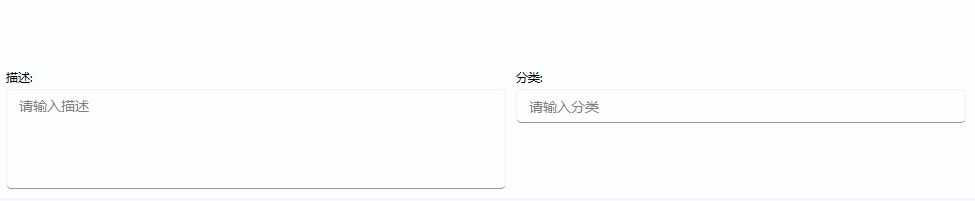
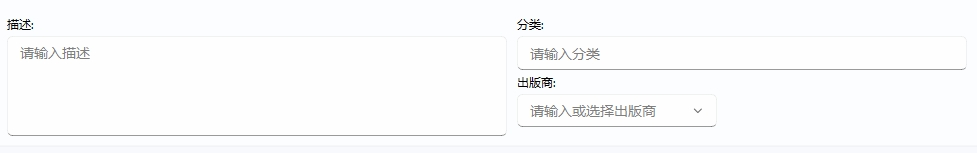
UPDATE: 添加版本 1.2.0 的更新记录，包括新增功能、变更和修复说明，优化工具栏和文件选择体验

diff --git a/src/download-and-update.md b/src/download-and-update.md
@@ -10,6 +10,26 @@
 
 ## 更新记录
 
+### [1.2.0] - 2025-12-13
+
+#### 新增
+
+- 文件工具栏分类输入框支持退格键删除最后一个分类
+- 文件工具栏中添加出版商输入框，支持用户自定义出版商信息
+- 在配置中添加段尾判断字符设置，支持用户自定义段落合并判断条件
+- 在章节长度窗口中添加 ESC 快捷键以关闭窗口
+- EPUB 支持 UTC 时间戳，设置书籍语言为简体中文，设置书籍阅读方向为从左向右阅读
+
+#### 变更
+
+- 修正 EPUB 中的语言设置为简体中文（zh-CN），制作软件信息不再设为出版商，修改为阅读无感知的 meta.generator 元数据
+- 更新主页视图中的标题按钮文本，以明确其功能并支持 h3 标签的插入
+- 优化文件选择对话框的文件类型提示，支持同时选择 EPUB 和 TXT 文件
+
+#### 修复
+
+- 在自动添加 p 标签配置中添加对 span 标签的支持，并优化判断逻辑，支持判断内有属性设置的标签
+
 ### [1.1.1] - 2025-12-08
 
 #### 修复

diff --git a/src/get-started/toolbar.md b/src/get-started/toolbar.md
@@ -24,6 +24,8 @@
 
 `项目信息` 部分修改均是实时同步，分类输入框有自动提示补全，补全内容来自项目根目录的 `subjects.josn` 文件，默认是起点和刺猬猫的分类，可根据自己的需求补全。
 
+`出版商` 默认选项为起点和刺猬猫，可自由输入新的，保存时会将新的添加到下拉列表中。
+
 ## 章节
 
 ![](/home-tools-chapter.jpg)
